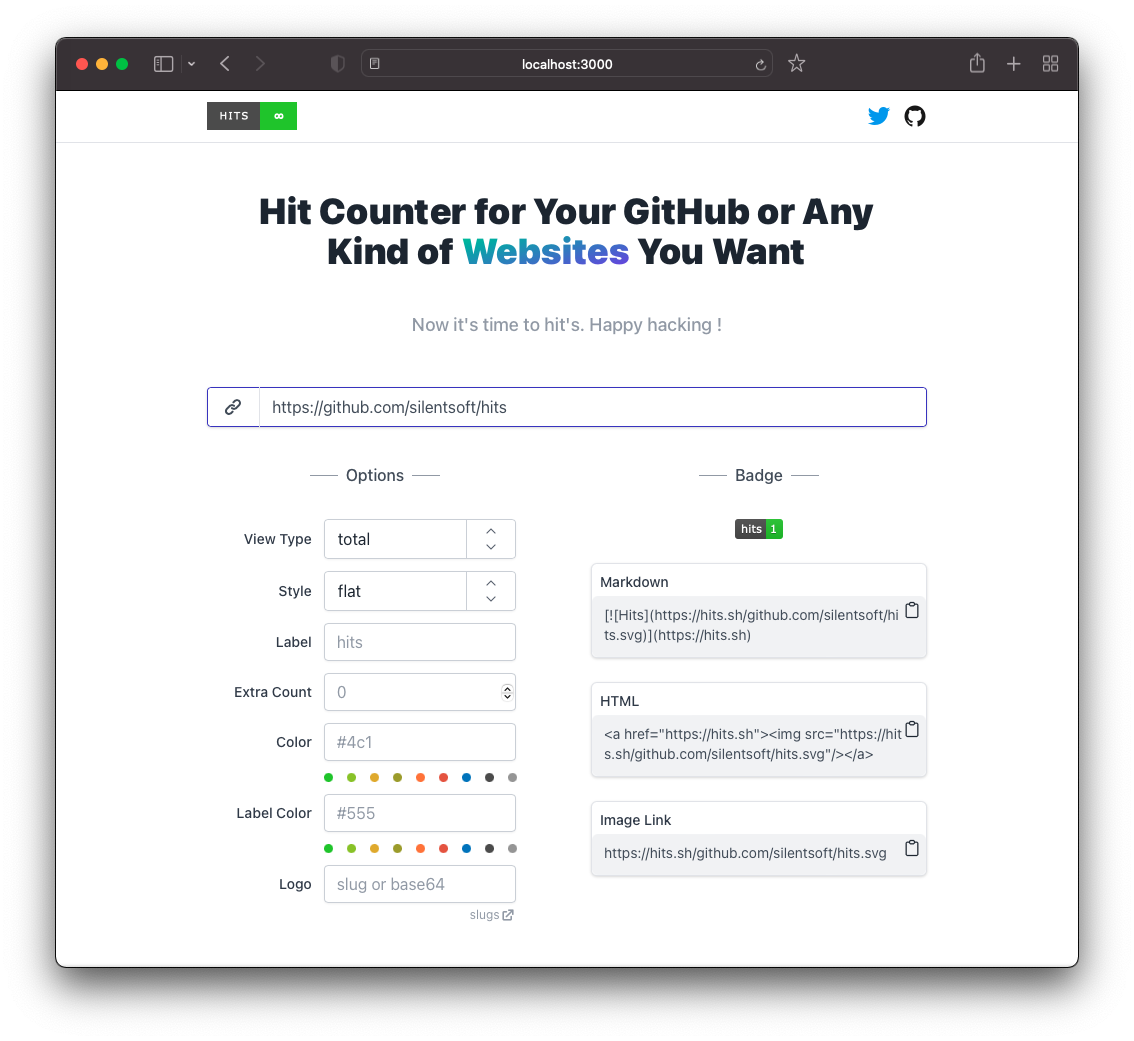
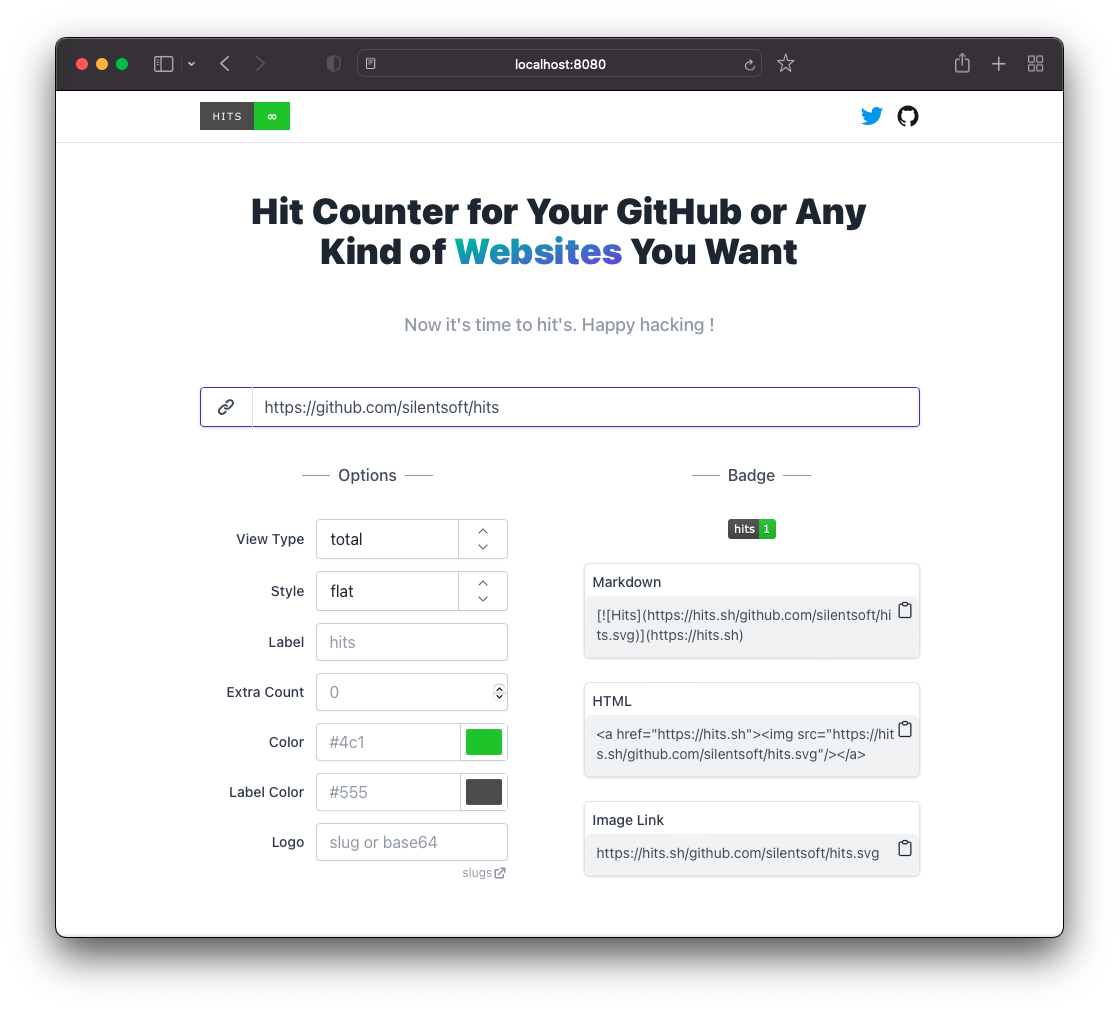
Fix #5 - Make color picker as a component

diff --git a/src/main/react/Content.js b/src/main/react/Content.js
@@ -1,124 +1,11 @@
 import React from "react";
 import SimpleDropdown from "./components/SimpleDropdown";
-// import {Circle} from "react-color/lib/components/circle/Circle";
 import BadgeCard from "./components/BadgeCard";
 import Utils from "./utils/Utils";
 import {normalize} from "./utils/UniformedResourceNameUtils";
-import { SketchPicker, SwatchesPicker } from 'react-color';
-import reactCSS from 'reactcss';
+import ColorPicker from "./components/ColorPicker";
 
 export default function Content() {
-    const [colorState, setColorState] = React.useState({
-        displayColorPicker: false,
-        color: {
-          r: '68',
-          g: '204',
-          b: '17',
-          a: '1',
-        },
-      });
-    const [labelColorState, setLabelColorState] = React.useState({
-        displayColorPicker: false,
-        color: {
-          r: '85',
-          g: '85',
-          b: '85',
-          a: '1',
-        },
-      });
-
-      const handleClickPicker = () => {
-        setLabelColorState({ ...labelColorState, displayColorPicker: false })
-        setColorState({ ...colorState, displayColorPicker: !colorState.displayColorPicker })
-      };
-    
-      const handleClosePicker = () => {
-        setColorState({ ...colorState, displayColorPicker: false })
-      };
-    
-      const handleChangePicker = (color) => {
-        setColor(color.hex);
-        setColorState({ ...colorState, color: color.rgb })
-      };
-
-      //=============================================================================
-      const handleClickPickerLabel = () => {
-        setColorState({ ...colorState, displayColorPicker: false })
-        setLabelColorState({ ...labelColorState, displayColorPicker: !labelColorState.displayColorPicker })
-      };
-    
-      const handleClosePickerLabel = () => {
-        setLabelColorState({ ...labelColorState, displayColorPicker: false })
-      };
-    
-      const handleChangePickerLabel = (color) => {
-        setLabelColor(color.hex);
-        setLabelColorState({ ...labelColorState, color: {...labelColorState.color, ...color.hex} })
-      };
-    
-
-
-    const pickerStyles = reactCSS({
-    'default': {
-        color: {
-            width: '36px',
-            height: '100%',
-            borderRadius: '2px',
-            background: `rgba(${ colorState.color.r }, ${ colorState.color.g }, ${ colorState.color.b }, ${ colorState.color.a })`,
-        },
-        swatch: {
-            padding: '5px',
-            height: '100%',
-            background: '#fff',
-            borderRadius: '1px',
-            display: 'inline-block',
-            cursor: 'pointer',
-        },
-        popover: {
-            position: 'absolute',
-            zIndex: '2',
-        },
-        cover: {
-            position: 'fixed',
-            top: '0px',
-            right: '0px',
-            bottom: '0px',
-            left: '0px',
-        },
-    },
-    });
-
-    const labelPickerStyles = reactCSS({
-    'default': {
-        color: {
-        width: '36px',
-        height: '100%',
-        borderRadius: '2px',
-        background: `rgba(${ labelColorState.color.r }, ${ labelColorState.color.g }, ${ labelColorState.color.b }, ${ labelColorState.color.a })`,
-    },
-    swatch: {
-        padding: '5px',
-        height: '100%',
-        background: '#fff',
-        borderRadius: '1px',
-        display: 'inline-block',
-        cursor: 'pointer',
-        },
-        popover: {
-        position: 'absolute',
-        zIndex: '2',
-        },
-        cover: {
-        position: 'fixed',
-        top: '0px',
-        right: '0px',
-        bottom: '0px',
-        left: '0px',
-        },
-    },
-    });
-
-
     const [url, setUrl] = React.useState("");
     const [view, setView] = React.useState("total");
     const [style, setStyle] = React.useState("flat");
@@ -161,12 +48,12 @@ export default function Content() {
         setExtraCount(e.target.value);
     };
 
-    const handleColorChange = (e) => {
-        setColor(e.target.value);
+    const handleColorChange = (color) => {
+        setColor(color);
     };
 
-    const handleLabelColorChange = (e) => {
-        setLabelColor(e.target.value);
+    const handleLabelColorChange = (color) => {
+        setLabelColor(color);
     };
 
     const handleLogoChange = (e) => {
@@ -267,36 +154,14 @@ export default function Content() {
                                 </div>
                                 <div className="flex flex-row items-center justify-end">
                                     <label className="text-sm font-medium leading-none text-gray-700 pr-3">Color</label>
-                                    <div className="w-48 flex">
-                                        <div>
-                                            <input type="text" className="w-full border border-r-0 rounded-r-none border-gray-300 dark:border-gray-700 pl-3 py-1.5 shadow-sm rounded focus:outline-none bg-transparent focus:border-indigo-700 text-gray-800 dark:text-gray-100" placeholder="#4c1" value={color} onChange={handleColorChange} />
-                                        </div>
-                                        <div className="border border-gray-300 dark:border-gray-700 shadow-sm bg-transparent rounded-r">
-                                            <div style={ pickerStyles.swatch } onClick={ handleClickPicker }>
-                                                <div style={ pickerStyles.color } />
-                                            </div>
-                                            { colorState.displayColorPicker ? <div style={ pickerStyles.popover }>
-                                            <div style={ pickerStyles.cover } onClick={ handleClosePicker }/>
-                                                <SwatchesPicker color={ colorState.color } onSwatchHover={ handleChangePicker } onChangeComplete={ handleClosePicker }/>
-                                            </div> : null }
-                                        </div>
+                                    <div className="w-48">
+                                        <ColorPicker color="#4c1" onChange={handleColorChange} />
                                     </div>
                                 </div>
                                 <div className="flex flex-row items-center justify-end">
                                     <label className="text-sm font-medium leading-none text-gray-700 pr-3">Label Color</label>
-                                    <div className="w-48 flex">
-                                        <div>
-                                            <input type="text" className="w-full border border-r-0 rounded-r-none border-gray-300 dark:border-gray-700 pl-3 py-1.5 shadow-sm rounded focus:outline-none bg-transparent focus:border-indigo-700 text-gray-800 dark:text-gray-100" placeholder="#555" value={labelColor} onChange={handleLabelColorChange} />
-                                        </div>
-                                        <div className="border border-gray-300 dark:border-gray-700 shadow-sm bg-transparent rounded-r">
-                                            <div style={ labelPickerStyles.swatch } onClick={ handleClickPickerLabel }>
-                                                <div style={ labelPickerStyles.color } />
-                                            </div>
-                                            { labelColorState.displayColorPicker ? <div style={ labelPickerStyles.popover }>
-                                            <div style={ labelPickerStyles.cover } onClick={ handleClosePickerLabel }/>
-                                                <SwatchesPicker color={ labelColorState.color } onSwatchHover={ handleChangePickerLabel } onChangeComplete={ handleClosePickerLabel }/>
-                                            </div> : null }
-                                        </div>
+                                    <div className="w-48">
+                                        <ColorPicker color="#555" onChange={handleLabelColorChange} />
                                     </div>
                                 </div>
                                 <div className="flex flex-row items-center justify-end">

diff --git a/src/main/react/components/ColorPicker.js b/src/main/react/components/ColorPicker.js
@@ -1,0 +1,76 @@
+import React from "react";
+import {SketchPicker} from "react-color";
+import reactCSS from 'reactcss';
+
+export default function ColorPicker(props) {
+    const [color, setColor] = React.useState("");
+    const [thumbColor, setThumbColor] = React.useState("");
+    const [displayColorPicker, setDisplayColorPicker] = React.useState(false);
+
+    const handleClick = () => {
+        setDisplayColorPicker(!displayColorPicker);
+    };
+
+    const handleClose = () => {
+        setDisplayColorPicker(false);
+    };
+
+    const handleChange = (color) => {
+        setThumbColor(color.hex);
+    };
+
+    const handleChangeComplete = (color) => {
+        setThumbColor(color);
+        setColor(color);
+        props.onChange(color);
+    };
+
+    const pickerStyles = reactCSS({
+        'default': {
+            color: {
+                width: '36px',
+                height: '100%',
+                borderRadius: '2px',
+                background: `${thumbColor}` ? `${thumbColor}` : `${props.color}`,
+            },
+            swatch: {
+                padding: '5px',
+                height: '100%',
+                background: '#fff',
+                borderRadius: '1px',
+                display: 'inline-block',
+                cursor: 'pointer',
+            },
+            popover: {
+                position: 'absolute',
+                zIndex: '2',
+                marginInlineStart: '-173px',
+            },
+            cover: {
+                position: 'fixed',
+                top: '0px',
+                right: '0px',
+                bottom: '0px',
+                left: '0px',
+            },
+        },
+    });
+
+    return (
+        <div className="flex">
+            <input type="text" className="w-full border border-r-0 rounded-r-none border-gray-300 dark:border-gray-700 pl-3 py-1.5 shadow-sm rounded focus:outline-none bg-transparent focus:border-indigo-700 text-gray-800 dark:text-gray-100" placeholder={props.color} value={color} onChange={(e) => handleChangeComplete(e.target.value)} />
+            <div className="border border-gray-300 dark:border-gray-700 shadow-sm bg-transparent rounded-r">
+                <div style={pickerStyles.swatch} onClick={handleClick}>
+                    <div style={pickerStyles.color} />
+                </div>
+                { displayColorPicker ? <div style={pickerStyles.popover}>
+                    <div style={pickerStyles.cover} onClick={handleClose}/>
+                    <SketchPicker color={thumbColor ? thumbColor : props.color} disableAlpha={true}
+                                  onChange={handleChange}
+                                  onChangeComplete={(color) => handleChangeComplete(color.hex)}
+                                  presetColors={['#4c1', '#97ca00', '#dfb317', '#fe7d37', '#e05d44', '#007ec6', '#555', '#9f9f9f']}/>
+                </div> : null }
+            </div>
+        </div>
+    );
+}
